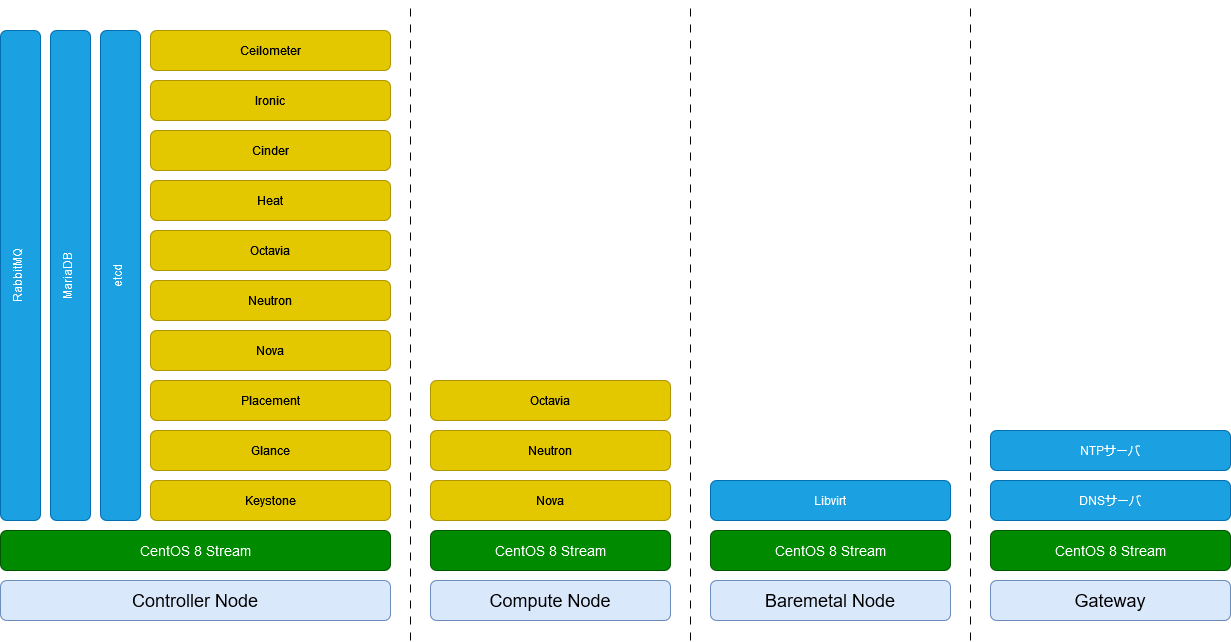
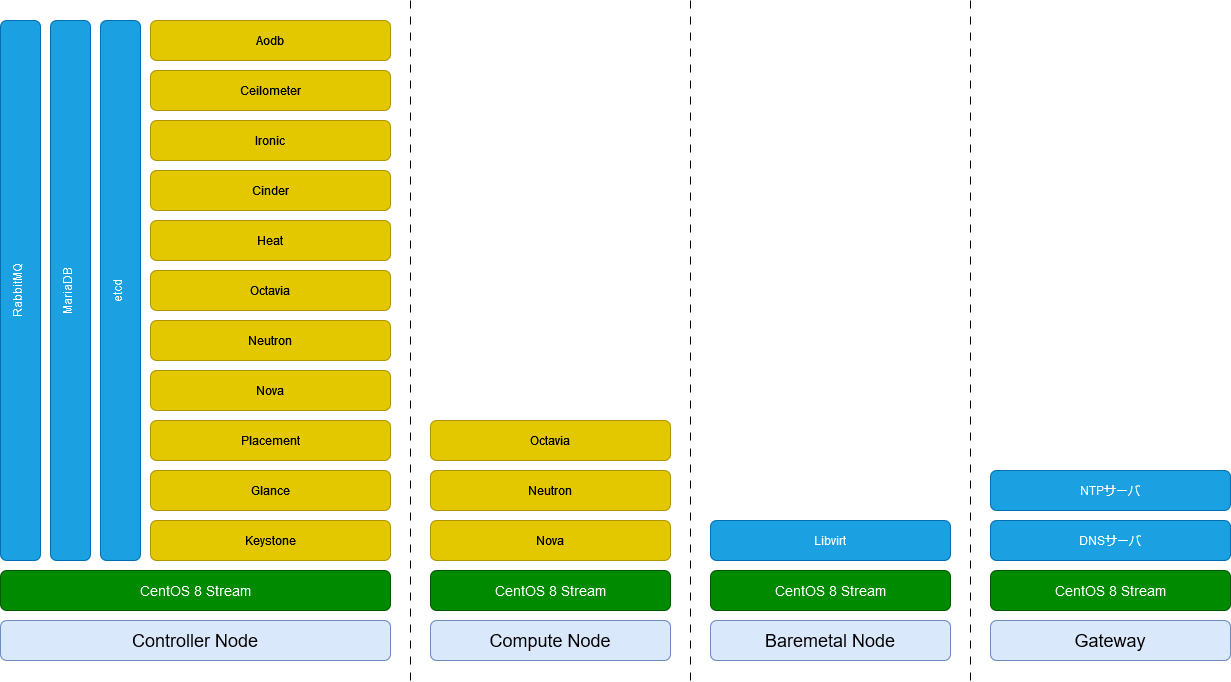
Aodh について記載した。

Changed region(s): [[0.0, 0.0312, 0.7717, 0.9969], [0.8026, 0.6542, 1.0, 0.9969], [0.0, 0.405, 0.0617, 0.4673]]

diff --git a/installation/controller/aodb.md b/installation/controller/aodb.md
@@ -1,0 +1,231 @@
+# OpenStack Telemetry Alarming Service (aodh)
+
+## データベースの作成
+
+データベースに root でログインする。
+
+```sh
+mysql -u root -p59c6b803ff3fd0e68dcd
+```
+
+データベース aodh を作成する。
+
+```sh
+CREATE DATABASE aodh;
+GRANT ALL PRIVILEGES ON aodh.* TO 'aodh'@'localhost' IDENTIFIED BY '237d687f60cd82bd2472';
+GRANT ALL PRIVILEGES ON aodh.* TO 'aodh'@'%' IDENTIFIED BY '237d687f60cd82bd2472';
+```
+
+## ユーザの作成
+
+ユーザ aodh を作成する。
+
+```sh
+openstack user create --domain default --password 7df3446ca4ec04bb40be aodh
+```
+
+```
++---------------------+----------------------------------+
+| Field               | Value                            |
++---------------------+----------------------------------+
+| domain_id           | default                          |
+| enabled             | True                             |
+| id                  | a61918fc49164c6fa6b80714c68a9412 |
+| name                | aodh                             |
+| options             | {}                               |
+| password_expires_at | None                             |
++---------------------+----------------------------------+
+```
+
+プロジェクト service にロール admin 権限でユーザ aodh を追加する。
+
+```sh
+openstack role add --project service --user aodh admin
+```
+
+## サービスの作成
+
+サービス alarming を作成する。
+
+```sh
+openstack service create --name aodh --description "OpenStack Telemetry Alarming" alarming
+```
+
+```
++-------------+----------------------------------+
+| Field       | Value                            |
++-------------+----------------------------------+
+| description | OpenStack Telemetry Alarming     |
+| enabled     | True                             |
+| id          | 7a617f6df901433a82da9b36e3eaccce |
+| name        | aodh                             |
+| type        | alarming                         |
++-------------+----------------------------------+
+```
+
+## エンドポイントの作成
+
+API エンドポイントを作成する。
+
+```sh
+openstack endpoint create --region RegionOne alarming public http://controller:8042
+```
+
+```
++--------------+----------------------------------+
+| Field        | Value                            |
++--------------+----------------------------------+
+| enabled      | True                             |
+| id           | ae789ff352dc4ebd9e161fa84c631010 |
+| interface    | public                           |
+| region       | RegionOne                        |
+| region_id    | RegionOne                        |
+| service_id   | 7a617f6df901433a82da9b36e3eaccce |
+| service_name | aodh                             |
+| service_type | alarming                         |
+| url          | http://controller:8042           |
++--------------+----------------------------------+
+```
+
+```sh
+openstack endpoint create --region RegionOne alarming internal http://controller:8042
+```
+
+```
++--------------+----------------------------------+
+| Field        | Value                            |
++--------------+----------------------------------+
+| enabled      | True                             |
+| id           | 728e133996e840978296f7e33fdf49b8 |
+| interface    | internal                         |
+| region       | RegionOne                        |
+| region_id    | RegionOne                        |
+| service_id   | 7a617f6df901433a82da9b36e3eaccce |
+| service_name | aodh                             |
+| service_type | alarming                         |
+| url          | http://controller:8042           |
++--------------+----------------------------------+
+```
+
+```sh
+openstack endpoint create --region RegionOne alarming admin http://controller:8042
+```
+
+```
++--------------+----------------------------------+
+| Field        | Value                            |
++--------------+----------------------------------+
+| enabled      | True                             |
+| id           | 27017f929fe5465a95f4969f4ee4193f |
+| interface    | admin                            |
+| region       | RegionOne                        |
+| region_id    | RegionOne                        |
+| service_id   | 7a617f6df901433a82da9b36e3eaccce |
+| service_name | aodh                             |
+| service_type | alarming                         |
+| url          | http://controller:8042           |
++--------------+----------------------------------+
+```
+
+ファイアウォールを開ける。
+
+```sh
+firewall-cmd --permanent --zone=internal --add-port=8042/tcp
+firewall-cmd --reload
+```
+
+## インストール
+
+aodh をインストールする。
+
+```sh
+dnf install -y \
+    openstack-aodh-api \
+    openstack-aodh-evaluator \
+    openstack-aodh-notifier \
+    openstack-aodh-listener \
+    openstack-aodh-expirer \
+    python3-aodhclient
+```
+
+## aodh の設定
+
+設定ファイルを更新する。
+
+```sh
+sed \
+    -e '/^\[DEFAULT]/,/^\[/ {
+      /^transport_url =/d
+      /^#transport_url =/atransport_url = rabbit://openstack:3c17215fe69ba1dad320@controller:5672/
+      /^auth_strategy =/d
+      /^#auth_strategy =/aauth_strategy = keystone
+    }' \
+    -e '/^\[database]/,/^\[/ {
+      /^connection =/d
+      /^#connection =/aconnection = mysql+pymysql://aodh:237d687f60cd82bd2472@controller/aodh
+    }' \
+    -e '/^\[keystone_authtoken]/,/^\[/ {
+      /^www_authenticate_uri =/d
+      /^#www_authenticate_uri =/awww_authenticate_uri = http://controller:5000
+      /^memcached_servers =/d
+      /^#memcached_servers =/amemcached_servers = controller:11211
+      /^auth_type =/d
+      /^#auth_type =/aauth_type = password
+      /^auth_url =/d
+      /^\[keystone_authtoken]/aauth_url = http://controller:5000
+      /^project_domain_name =/d
+      /^\[keystone_authtoken]/aproject_domain_name = Default
+      /^project_name =/d
+      /^\[keystone_authtoken]/aproject_name = service
+      /^user_domain_name =/d
+      /^\[keystone_authtoken]/auser_domain_name = Default
+      /^username =/d
+      /^\[keystone_authtoken]/ausername = aodh
+      /^password =/d
+      /^\[keystone_authtoken]/apassword = 7df3446ca4ec04bb40be
+    }' \
+    -e '/^\[service_credentials]/,/^\[/ {
+      /^auth_type =/d
+      /^#auth_type =/aauth_type = password
+      /^auth_url =/d
+      /^#auth_url =/aauth_url = http://controller:5000
+      /^project_domain_name =/d
+      /^#project_domain_name =/aproject_domain_name = Default
+      /^project_name =/d
+      /^#project_name =/aproject_name = service
+      /^user_domain_name =/d
+      /^#user_domain_name =/auser_domain_name = Default
+      /^username =/d
+      /^#username =/ausername = aodh
+      /^password =/d
+      /^#password =/apassword = 7df3446ca4ec04bb40be
+      /^region_name =/d
+      /^#region_name =/aregion_name = RegionOne
+      /^interface =/d
+      /^#interface =/ainterface = internalURL
+    }' \
+    -i /etc/aodh/aodh.conf
+```
+
+## データベースの構築
+
+データベースを構築する。
+
+```sh
+aodh-dbsync
+```
+
+## 起動
+
+マシン起動時の自動起動設定とサービスを起動する。
+
+```{note}
+*/usr/bin/aodh-api*　の 8000 -> 8042 に変更する。
+```
+
+```sh
+systemctl enable --now openstack-aodh-api
+systemctl enable --now openstack-aodh-evaluator
+systemctl enable --now openstack-aodh-notifier
+systemctl enable --now openstack-aodh-listener
+```

diff --git a/preface/credential.md b/preface/credential.md
@@ -23,6 +23,7 @@ openssl rand -hex 10
 | cinder    | 909ad266b6b2b52c6a6d |
 | ironic    | 383e3b4468252474df9f |
 | gnocchi   | 023e924d8a52c340024f |
+| aodh      | 237d687f60cd82bd2472 |
 
 ## RabbitMQ
 
@@ -47,6 +48,7 @@ openssl rand -hex 10
 | ironic            | bdda64a33b3a75728a9c |
 | gnocchi           | e760d03f9f03f676c9e2 |
 | ceilometer        | eb5b4e528d0e10669cfa |
+| aodh              | 7df3446ca4ec04bb40be |
 
 ## Neutron
 

diff --git a/installation/controller/index.md b/installation/controller/index.md
@@ -17,4 +17,5 @@ heat
 cinder
 ironic
 ceilometer
+aodb
 ```
